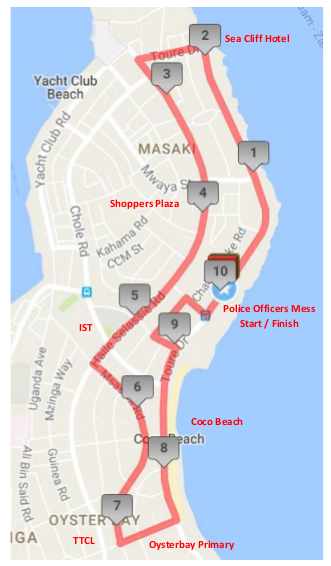
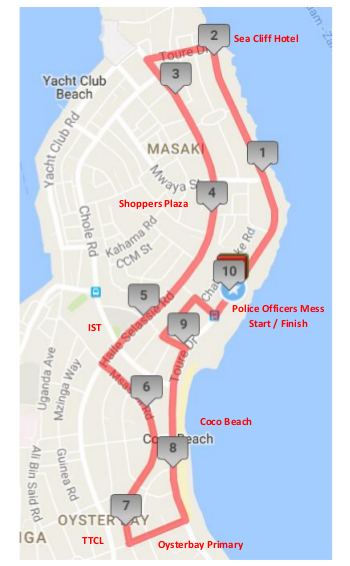
removed unwanted images, and added proper content

diff --git a/index.html b/index.html
@@ -164,25 +164,12 @@
                  <div class="price">
                    21.1 km half marathon
                  </div>
-                 <ul>
-                    <li>Start at the Green on Kenyatta Drive </li>
-                    <li>Head towards Toure Drive in direction of Sea Cliff Hotel</li>
-                    <li>Turn Left on Sea Cliff Hotel Road</li>
-                    <li>Head towards the Yacht Club Rd towards Slipway</li>
-                    <li>Turn Left on Slipway Road</li>
-                    <li>Turn Right on Chole Road</li>
-                    <li>Turn Right on Haile Selassie Rd towards Colosseum Hotel</li>
-                    <li>Turn Left on Ali Hassan Mwinyi Road</li>
-                    <li>Turn Left onto Barack Obama Drive</li>
-                    <li>Turn Right onto Chimara Street and make a slight left towards the Round about (Luthuli)</li>
-                    <li>Continue on Luthuli Rd pass the State House</li>
-                    <li>Turn Right onto Kivukoni Rd</li>
-                    <li>Turn Right onto Ohio Street</li>
-                    <li>Turn Right onto Ali Hassan Mwinyi Rd</li>
-                    <li>Turn Right onto Kenyatta Drive</li>
-                    <li>Finish at the Green</li>
-                </ul>
+                  <div class="routepicture route21km">
+                   <img class="img-responsive routepicture-image" src="images/route21km.png" alt="">
+                  </div>
+                  <div class="routeinfo km10">
                  <a class="btn btn-lg btn-primary"  data-lightbox="portfolio" href="images/register.jpg">Join us</a>
+               </div>
                </div>
              </div>
              <div class="col-sm-6">
@@ -648,34 +635,14 @@
         </div>
         <div class="contact-form wow fadeIn" data-wow-duration="1000ms" data-wow-delay="600ms">
           <div class="row">
-            <div class="col-sm-6">
-              <form id="main-contact-form" name="contact-form" method="post" action="#">
-                <div class="row  wow fadeInUp" data-wow-duration="1000ms" data-wow-delay="300ms">
-                  <div class="col-sm-6">
-                    <div class="form-group">
-                      <input type="text" name="name" class="form-control" placeholder="Name" required="required">
-                    </div>
-                  </div>
-                  <div class="col-sm-6">
-                    <div class="form-group">
-                      <input type="email" name="email" class="form-control" placeholder="Email Address" required="required">
-                    </div>
-                  </div>
-                </div>
-                <div class="form-group">
-                  <input type="text" name="subject" class="form-control" placeholder="Subject" required="required">
-                </div>
-                <div class="form-group">
-                  <textarea name="message" id="message" class="form-control" rows="4" placeholder="Enter your message" required="required"></textarea>
-                </div>
-                <div class="form-group">
-                  <button type="submit" class="btn-submit">Send Now</button>
-                </div>
-              </form>
+            <div class="col-sm-6 race-organizers">
+             <h3>Race Organizers</h3>
+             <img class="img-responsive" src="images/team/darrunningclub.png" alt="">
+             <p class="organizers-info">dar running club</p>
             </div>
             <div class="col-sm-6">
               <div class="contact-info wow fadeInUp" data-wow-duration="1000ms" data-wow-delay="300ms">
-               <p>For More Information feel free to get in contact with us.</p>
+               <p>For more information about the race,please feel free to contact us at:</p>
                 <ul class="address">
                   <li><i class="fa fa-phone"></i> <span> Phone:</span> +255 715 302 336 </li>
                   <li><i class="fa fa-phone"></i> <span> Phone:</span> +255 767 345 045 </li>

diff --git a/css/main.css b/css/main.css
@@ -177,6 +177,7 @@ section {
  padding-left:0px;
 }
 
+.
 
 
 /*************************
@@ -932,6 +933,12 @@ padding-left: 1px;
 #contact {
   padding-top: 45px;
   padding-bottom: 0;
+}
+
+.organizers-info
+{
+ font-size: 26px;
+     color: #efee0e; 
 }
 
 #google-map {
